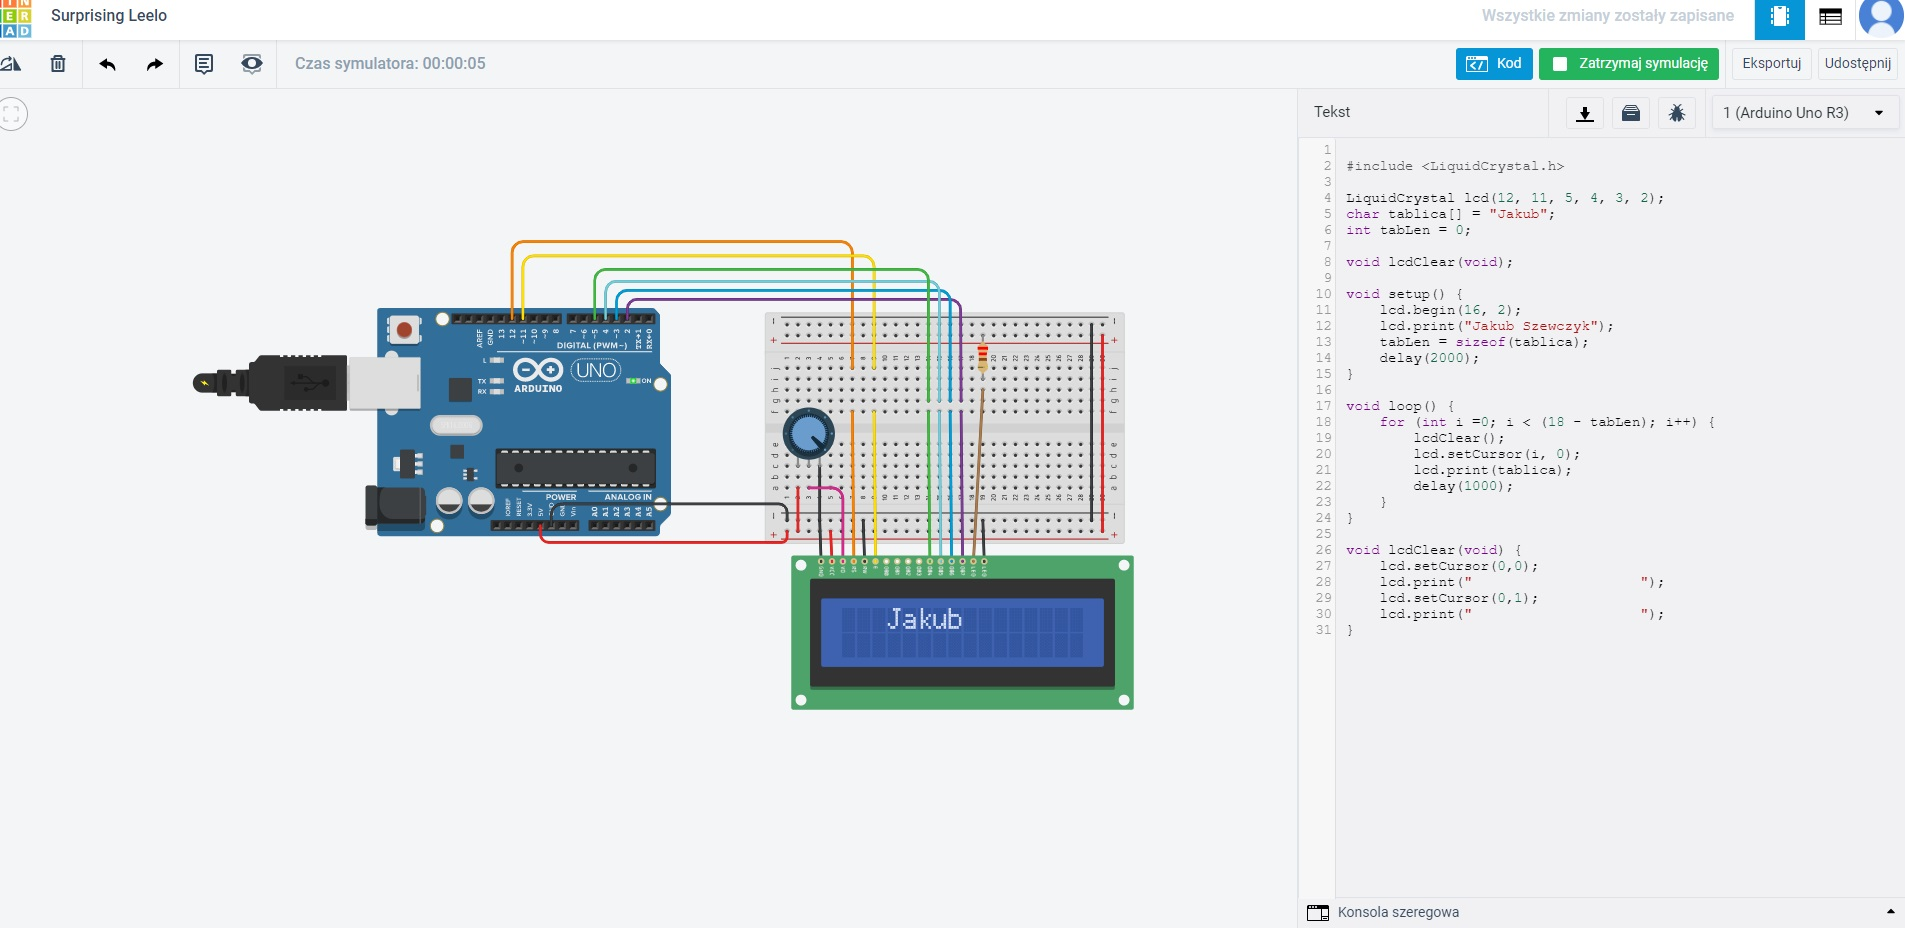
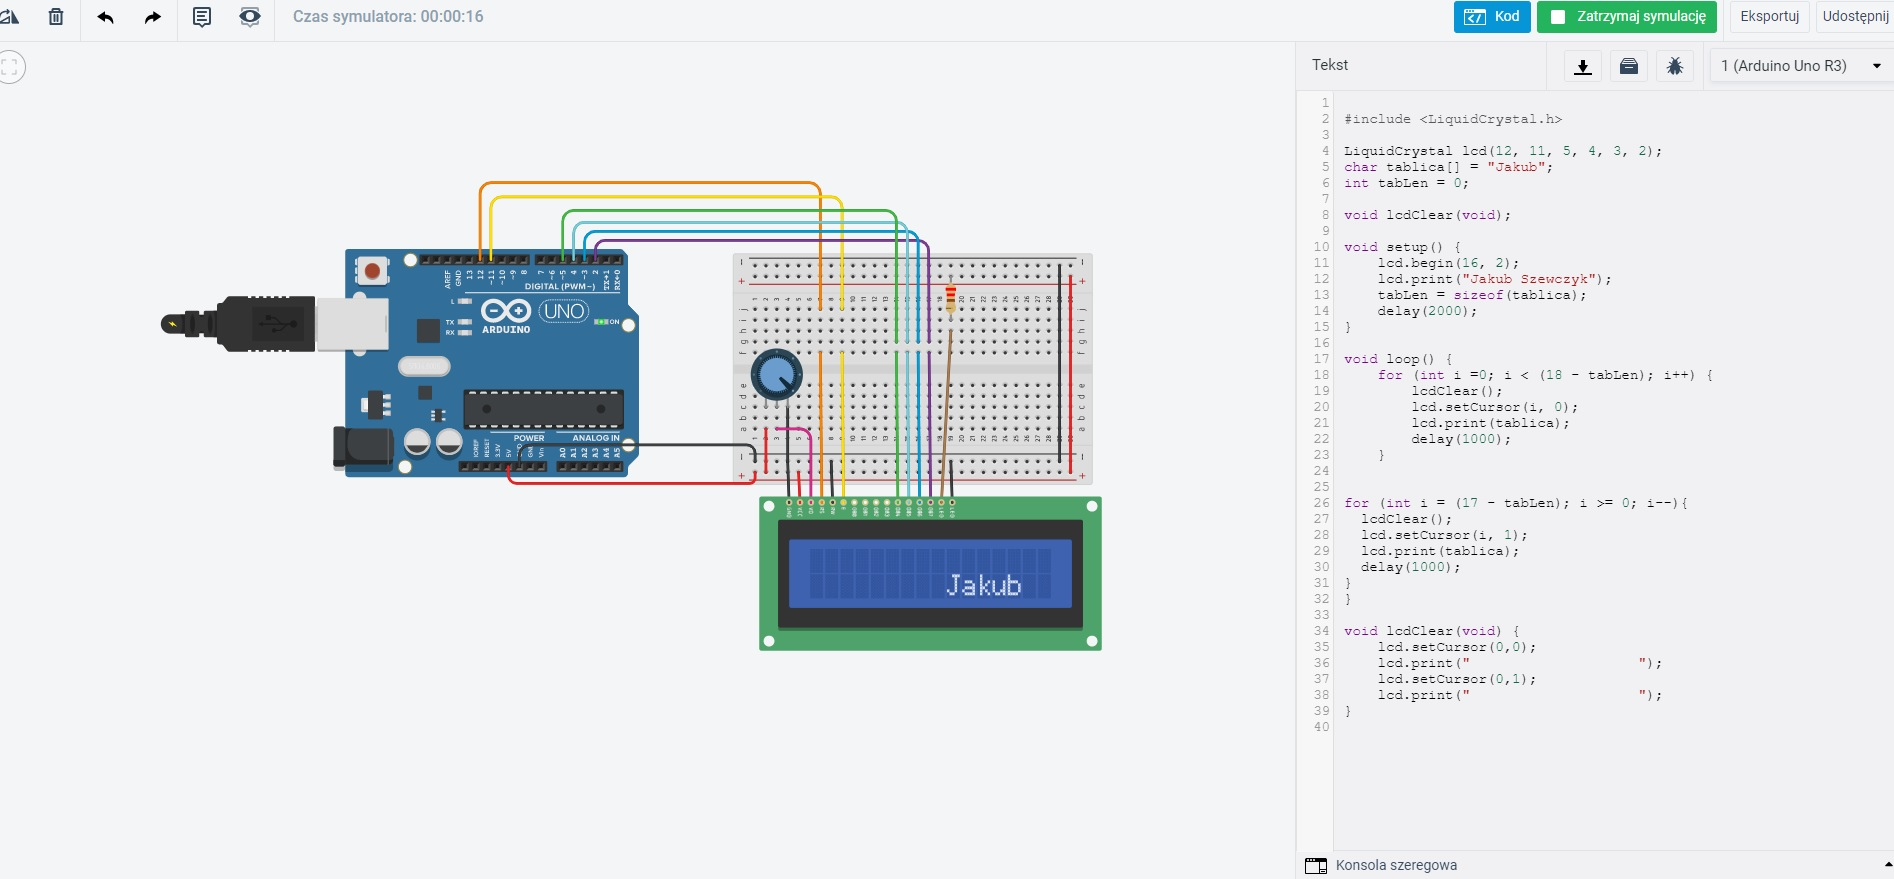
Wykonano zadanie 3.3.2-tekst pływający

diff --git a/Zadanie-3-3/src/main.cpp b/Zadanie-3-3/src/main.cpp
@@ -21,6 +21,14 @@ void loop() {
         lcd.print(tablica);
         delay(1000);
     }
+
+
+for (int i = (17 - tabLen); i >= 0; i--){
+  lcdClear();
+  lcd.setCursor(i, 1);
+  lcd.print(tablica);
+  delay(1000);
+}
 }
 
 void lcdClear(void) {
